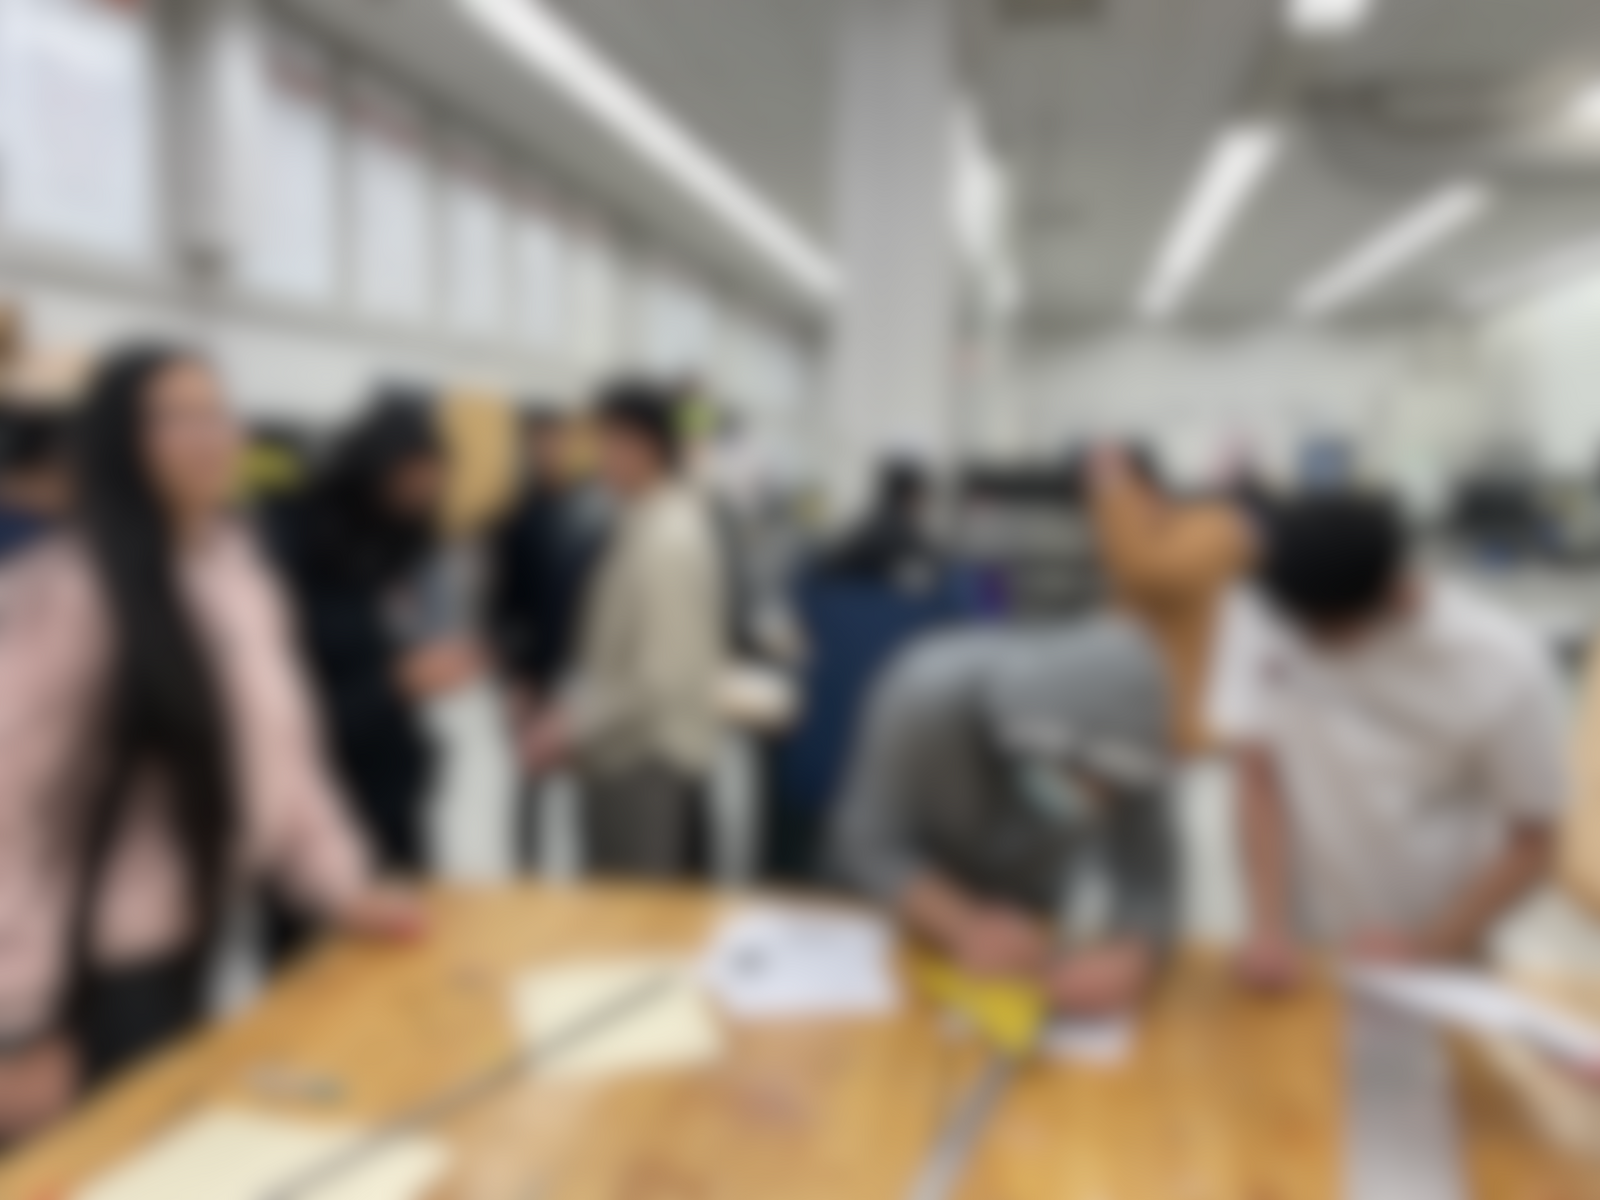
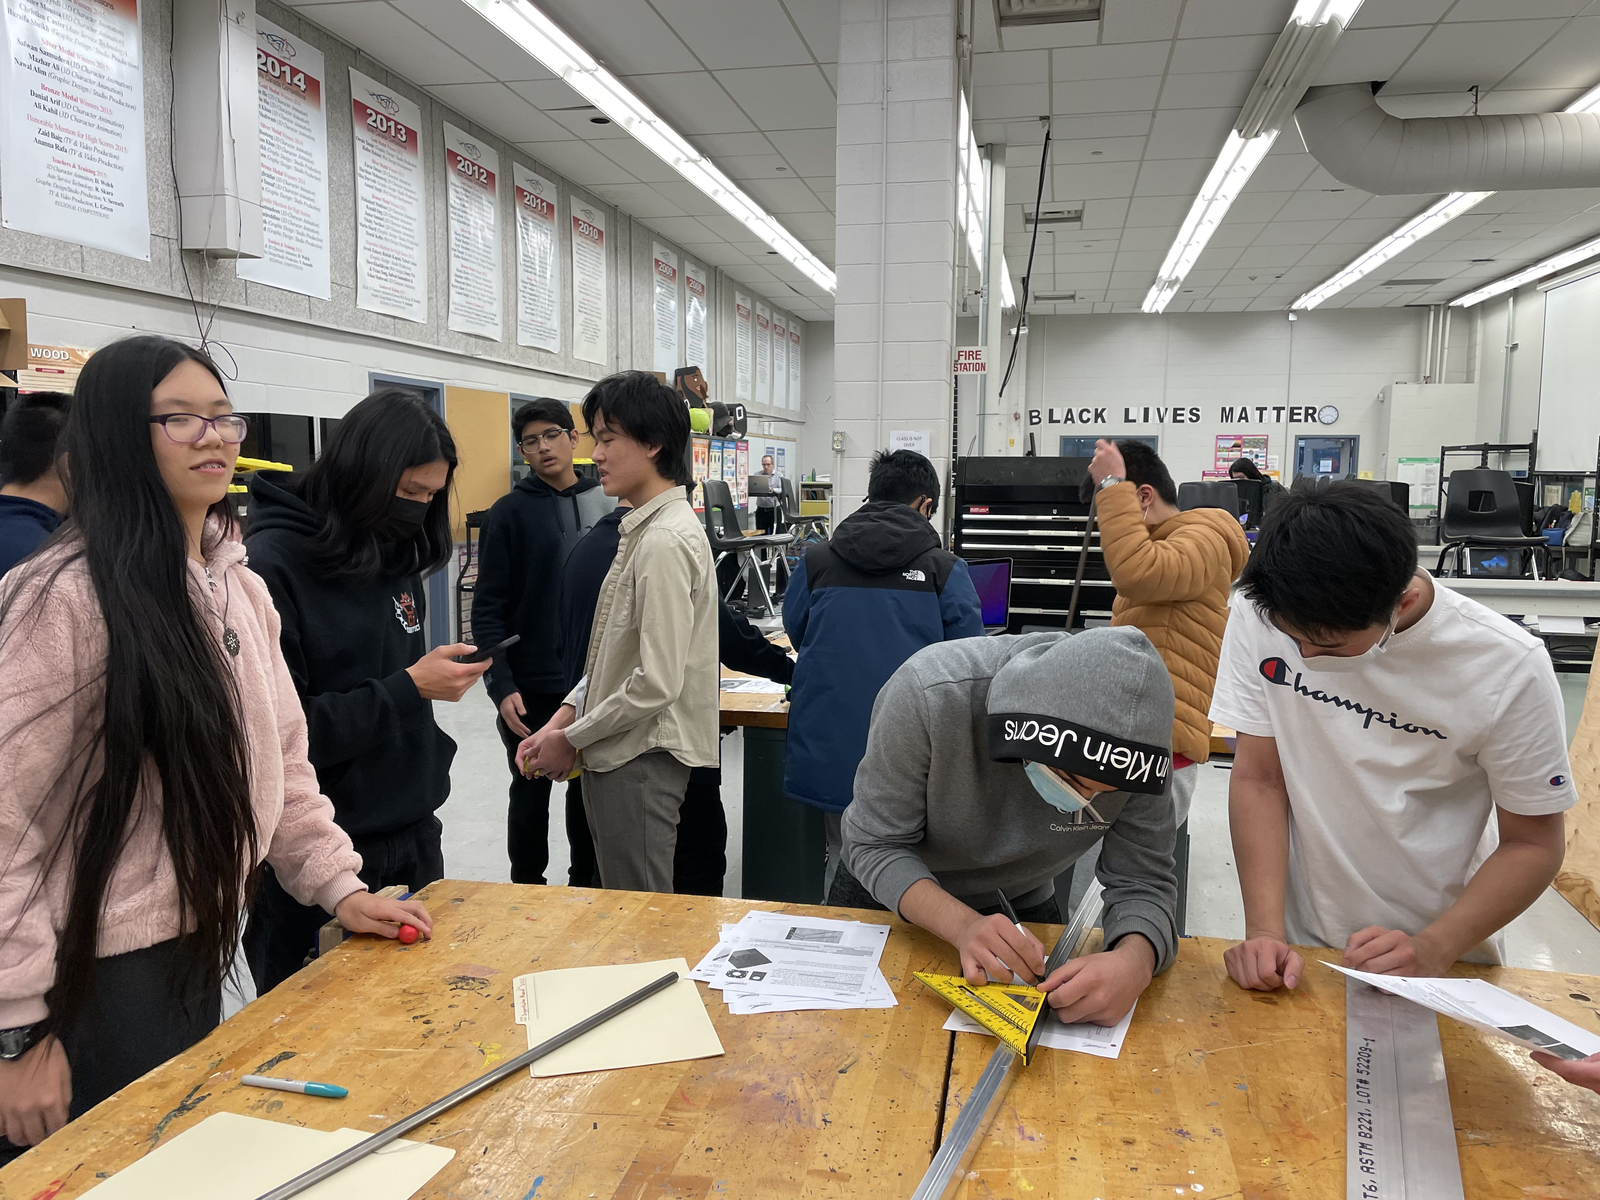
Optimize title images

diff --git a/app/blog/page.tsx b/app/blog/page.tsx
@@ -1,11 +1,10 @@
 import Link from 'next/link';
-import classNames from 'classnames';
 import { BLOCKS, Node } from '@contentful/rich-text-types';
 import { documentToReactComponents } from '@contentful/rich-text-react-renderer';
 import contentfulClient from '@/lib/contentful';
 import { BlogPostSkeleton } from '@/types/contentful';
 import BlogImage from '@/components/blog-image';
-import styles from '../home.module.css';
+import PageTitle from '@/components/page-title';
 
 const renderOptions = {
   renderNode: {
@@ -31,11 +30,7 @@ export default async function Blog() {
 
   return (
     <>
-      <div className="font-glacialindifferencebold px-2 w-full h-60 overflow-hidden bg-[url('/blog-image.webp')] bg-cover bg-center flex flex-col items-center justify-center">
-        <div className="w-full h-full flex justify-center items-center">
-          <h1 className={classNames('text-center align-middle text-6xl sm:text-8xl font-bold mb-2', styles.redShadow)}>BLOG</h1>
-        </div>
-      </div>
+      <PageTitle imageSrc="/blog-image.webp" title="BLOG" imageAlt="Team photo" />
       <div className="container mx-auto grid grid-cols-4 gap-x-10 px-5">
         <main className="order-last lg:order-none col-span-4 lg:col-span-3">
           {blogPosts.slice(0, 2).map((blogPost) => (
@@ -43,7 +38,7 @@ export default async function Blog() {
               <div className="bg-gray-500 flex pl-1 pr-4 py-4 items-center">
                 {blogPost.fields.author?.fields.profilePicture && (
                   <BlogImage
-                    url={`https://${blogPost.fields.author!.fields.profilePicture!.fields.file!.url}`}
+                    url={`https://${blogPost.fields.author.fields.profilePicture.fields.file!.url}`}
                     description="test"
                     className="rounded-full hidden sm:block"
                     width={86}

diff --git a/app/page.tsx b/app/page.tsx
@@ -9,10 +9,13 @@ export default async function Home() {
   return (
     <div className="grid grid-cols-4">
       <main className="col-span-4 lg:col-span-3">
-        <div className="font-glacialindifferencebold px-2 w-full h-96 overflow-hidden bg-[url('/team-blurred.webp')] bg-cover bg-center flex flex-col items-center justify-center">
-          <h1 className={classNames('text-center align-middle text-6xl sm:text-8xl font-bold mb-2', styles.redShadow)}>MGCI ROBOTICS</h1>
-          <h2 className={classNames('text-3xl font-bold mb-1', styles.redOutline)}>AUDEAMUS</h2>
-          <h2 className={classNames('text-3xl font-bold', styles.redOutline)}>FRC 8574</h2>
+        <div className="font-glacialindifferencebold px-2 w-full h-96 overflow-hidden relative">
+          <Image src="/team.webp" fill className="object-cover" alt="Team photo" />
+          <div className="w-full h-full flex flex-col justify-center items-center backdrop-blur-md">
+            <h1 className={classNames('text-center align-middle text-6xl sm:text-8xl font-bold mb-2', styles.redShadow)}>MGCI ROBOTICS</h1>
+            <h2 className={classNames('text-3xl font-bold mb-1', styles.redOutline)}>AUDEAMUS</h2>
+            <h2 className={classNames('text-3xl font-bold', styles.redOutline)}>FRC 8574</h2>
+          </div>
         </div>
         <p className="text-center text-2xl md:text-3xl mt-4 mb-8 px-5 max-w-3xl mx-auto">
           We are the robotics team based in Marc Garneau Collegiate Institute, a high school based

diff --git a/app/sponsors/page.tsx b/app/sponsors/page.tsx
@@ -1,15 +1,12 @@
 import classNames from 'classnames';
 import Link from 'next/link';
+import PageTitle from '@/components/page-title';
 import styles from '../home.module.css';
 
 export default async function Sponsors() {
   return (
     <>
-      <div className="font-glacialindifferencebold w-full h-60 overflow-hidden bg-[url('/team.webp')] bg-cover bg-center flex flex-col items-center justify-center">
-        <div className="w-full h-full flex justify-center items-center backdrop-blur-md">
-          <h1 className={classNames('text-center align-middle text-6xl sm:text-8xl font-bold mb-2', styles.redShadow)}>SPONSORS</h1>
-        </div>
-      </div>
+      <PageTitle imageSrc="/team.webp" title="SPONSORS" />
       <div className="container mx-auto px-5 max-w-5xl">
         <h3 className={classNames('text-4xl font-bold text-center mb-2 mt-4', styles.textShadow)}>Thank you for your interest in sponsoring Audeamus!</h3>
         <p className="text-2xl font-bold text-center mt-4 mb-8 px-5">

diff --git a/components/page-title.tsx b/components/page-title.tsx
@@ -1,0 +1,20 @@
+import classNames from 'classnames';
+import Image from 'next/image';
+import styles from '../app/home.module.css';
+
+type PageTitleProps = {
+  imageSrc: string;
+  title: string;
+  imageAlt: string;
+}
+
+export default function PageTitle({ imageSrc, title, imageAlt }: PageTitleProps) {
+  return (
+    <div className="font-glacialindifferencebold w-full h-60 overflow-hidden flex flex-col items-center justify-center relative">
+      <Image src={imageSrc} fill className="object-cover" alt={imageAlt} />
+      <div className="w-full h-full flex justify-center items-center backdrop-blur-md">
+        <h1 className={classNames('text-center align-middle text-6xl sm:text-8xl font-bold mb-2', styles.redShadow)}>{title}</h1>
+      </div>
+    </div>
+  );
+}

diff --git a/app/about/page.tsx b/app/about/page.tsx
@@ -1,14 +1,9 @@
-import classNames from 'classnames';
-import styles from '../home.module.css';
+import PageTitle from '@/components/page-title';
 
 export default async function About() {
   return (
     <div>
-      <div className="font-glacialindifferencebold w-full h-60 overflow-hidden bg-[url('/image-placeholder.gif')] bg-fill bg-center flex flex-col items-center justify-center">
-        <div className="w-full h-full flex justify-center items-center backdrop-blur-md">
-          <h1 className={classNames('text-center align-middle text-6xl sm:text-8xl font-bold mb-2', styles.redShadow)}>ABOUT US</h1>
-        </div>
-      </div>
+      <PageTitle imageSrc="/image-placeholder.gif" title="ABOUT US" imageAlt="Placeholder image" />
     </div>
   );
 }
